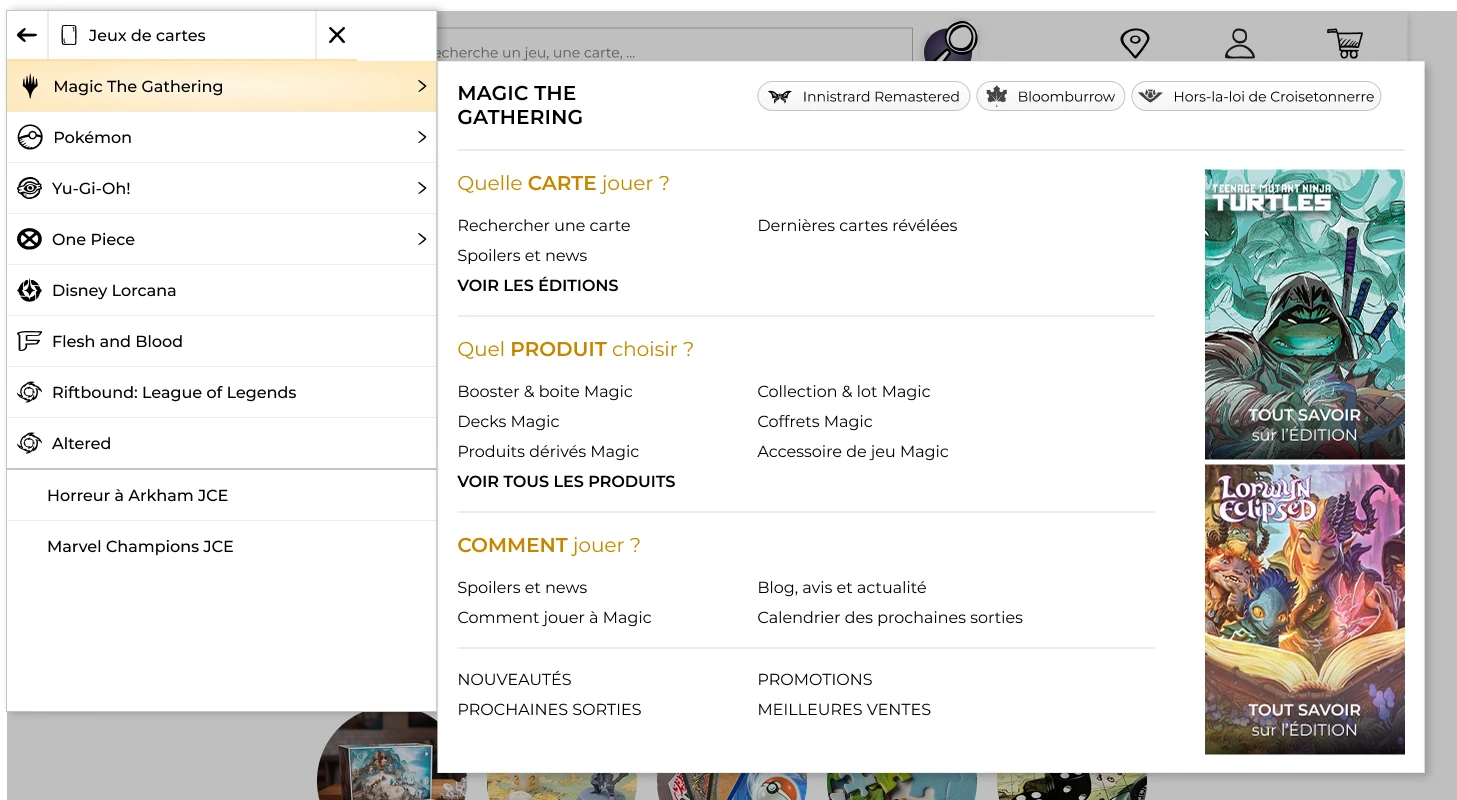
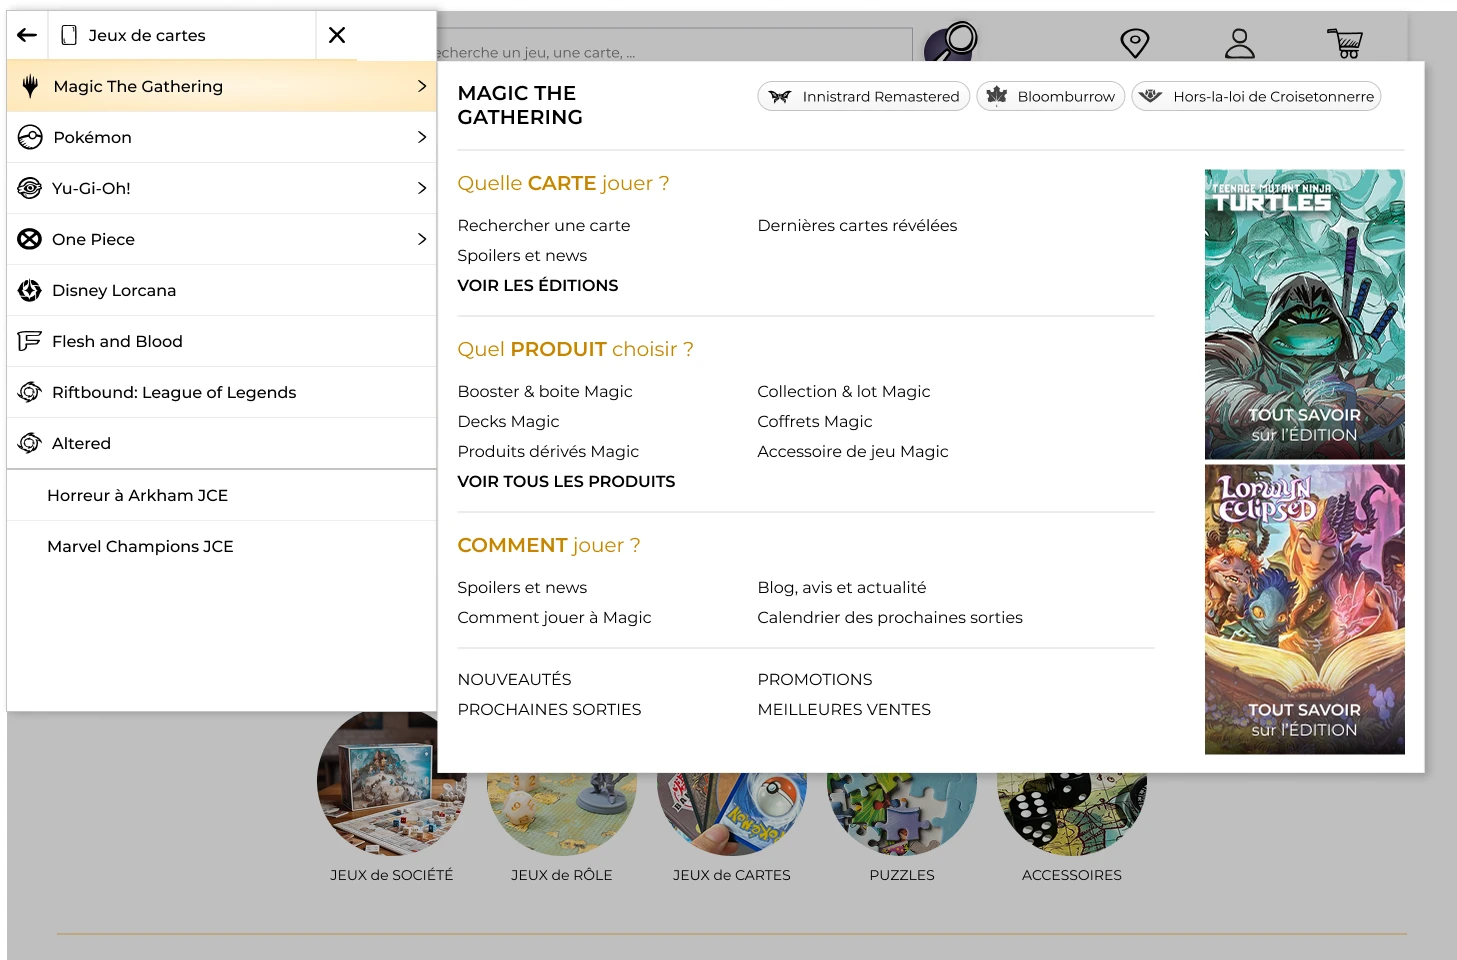
E-commerce : recadrage des menus et de la connexion
Claude-Session: https://claude.ai/code/session_01THwdntjNiSuDEHoKbgxniL

diff --git a/projets/refonte-site-e-commerce-play-in/index.html b/projets/refonte-site-e-commerce-play-in/index.html
@@ -262,8 +262,8 @@
           <figure class="st-wf">
             <figcaption><span class="st-wf__num">02</span><strong>Menu</strong>Du menu principal au sous-menu d’une gamme : cartes, produits et guides en deux clics</figcaption>
             <div class="st-wf__stack">
-              <div class="st-wf__col"><span class="st-wf__label">1. Menu principal</span><div class="st-wf__img"><img src="../../assets/img/play-in-ecommerce/ui/menu-d.webp" alt="Menu principal ouvert : gammes de produits, sélections et services" width="1220" height="960" loading="lazy"></div></div>
-              <div class="st-wf__col"><span class="st-wf__label">2. Menu d’une gamme</span><div class="st-wf__img"><img src="../../assets/img/play-in-ecommerce/ui/menu-magic-d.webp" alt="Sous-menu Magic The Gathering : recherche de cartes, produits et guides de jeu" width="1457" height="800" loading="lazy"></div></div>
+              <div class="st-wf__col"><span class="st-wf__label">1. Menu principal</span><div class="st-wf__img"><img src="../../assets/img/play-in-ecommerce/ui/menu-d.webp" alt="Menu principal ouvert : gammes de produits, sélections et services" width="1220" height="1080" loading="lazy"></div></div>
+              <div class="st-wf__col"><span class="st-wf__label">2. Menu d’une gamme</span><div class="st-wf__img"><img src="../../assets/img/play-in-ecommerce/ui/menu-magic-d.webp" alt="Sous-menu Magic The Gathering : recherche de cartes, produits et guides de jeu" width="1457" height="960" loading="lazy"></div></div>
             </div>
           </figure>
           <figure class="st-wf">
@@ -280,7 +280,7 @@
           </figure>
           <figure class="st-wf">
             <figcaption><span class="st-wf__num">06</span><strong>Connexion</strong>Se connecter ou créer un compte sans quitter la page</figcaption>
-            <div class="st-wf__col"><span class="st-wf__label">Desktop</span><div class="st-wf__img"><img src="../../assets/img/play-in-ecommerce/ui/connexion-d.webp" alt="Fenêtre de connexion : inscription, compte existant, Google et Facebook" width="1450" height="1426" loading="lazy"></div></div>
+            <div class="st-wf__col"><span class="st-wf__label">Desktop</span><div class="st-wf__img"><img src="../../assets/img/play-in-ecommerce/ui/connexion-d.webp" alt="Fenêtre de connexion : inscription, compte existant, Google et Facebook" width="1450" height="940" loading="lazy"></div></div>
           </figure>
         </div>
         <p class="st-note">Faites défiler les captures pour voir les pages en entier.</p>
